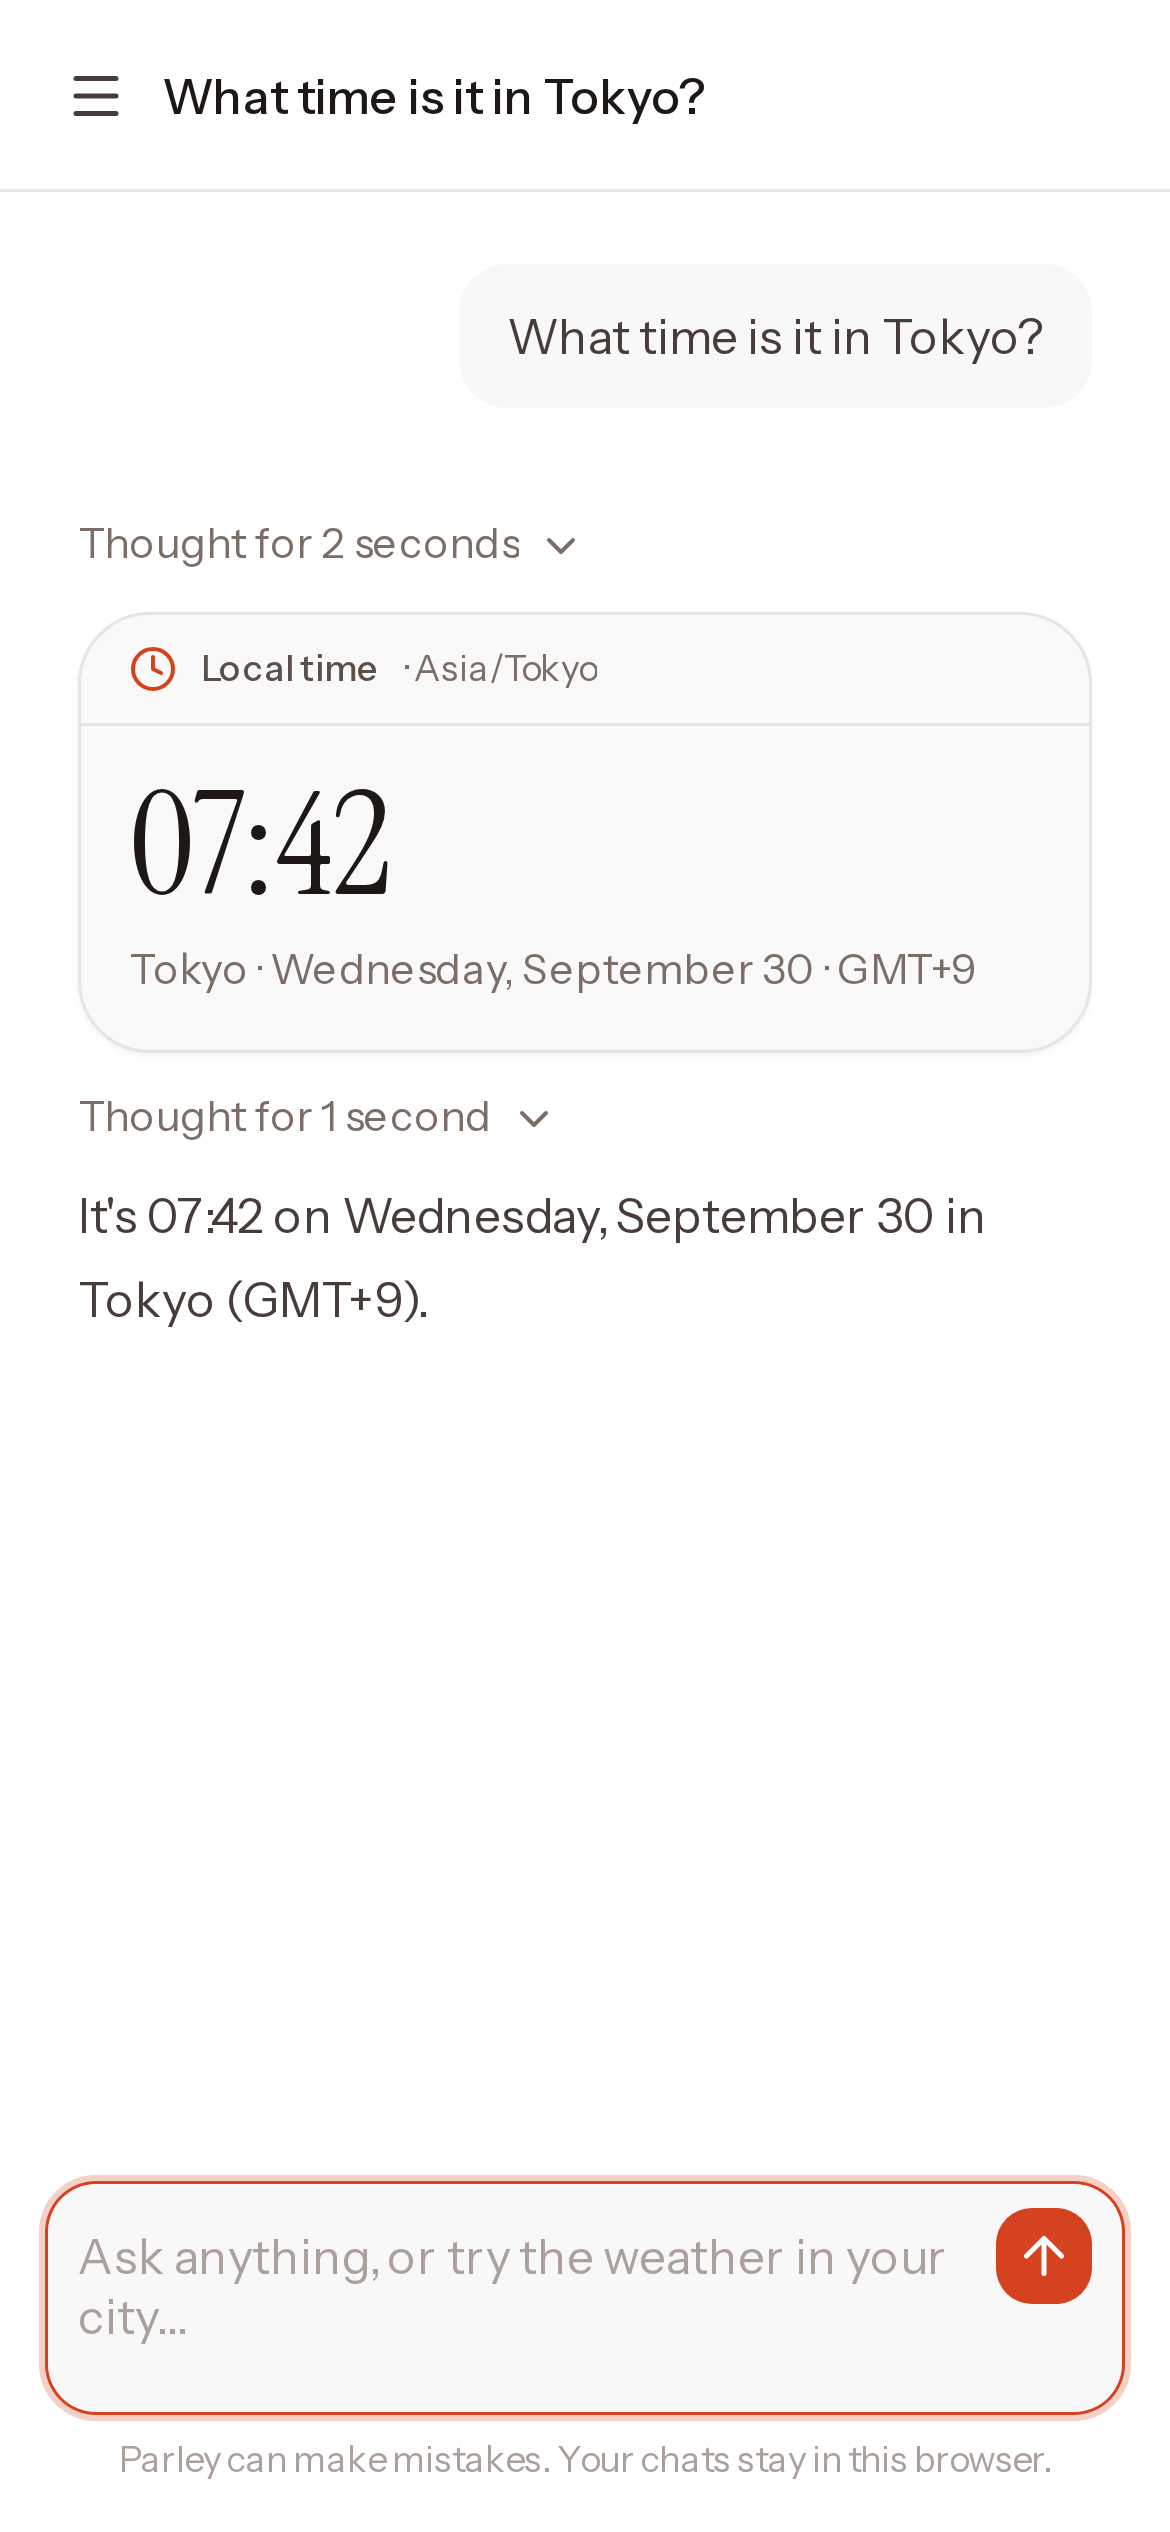
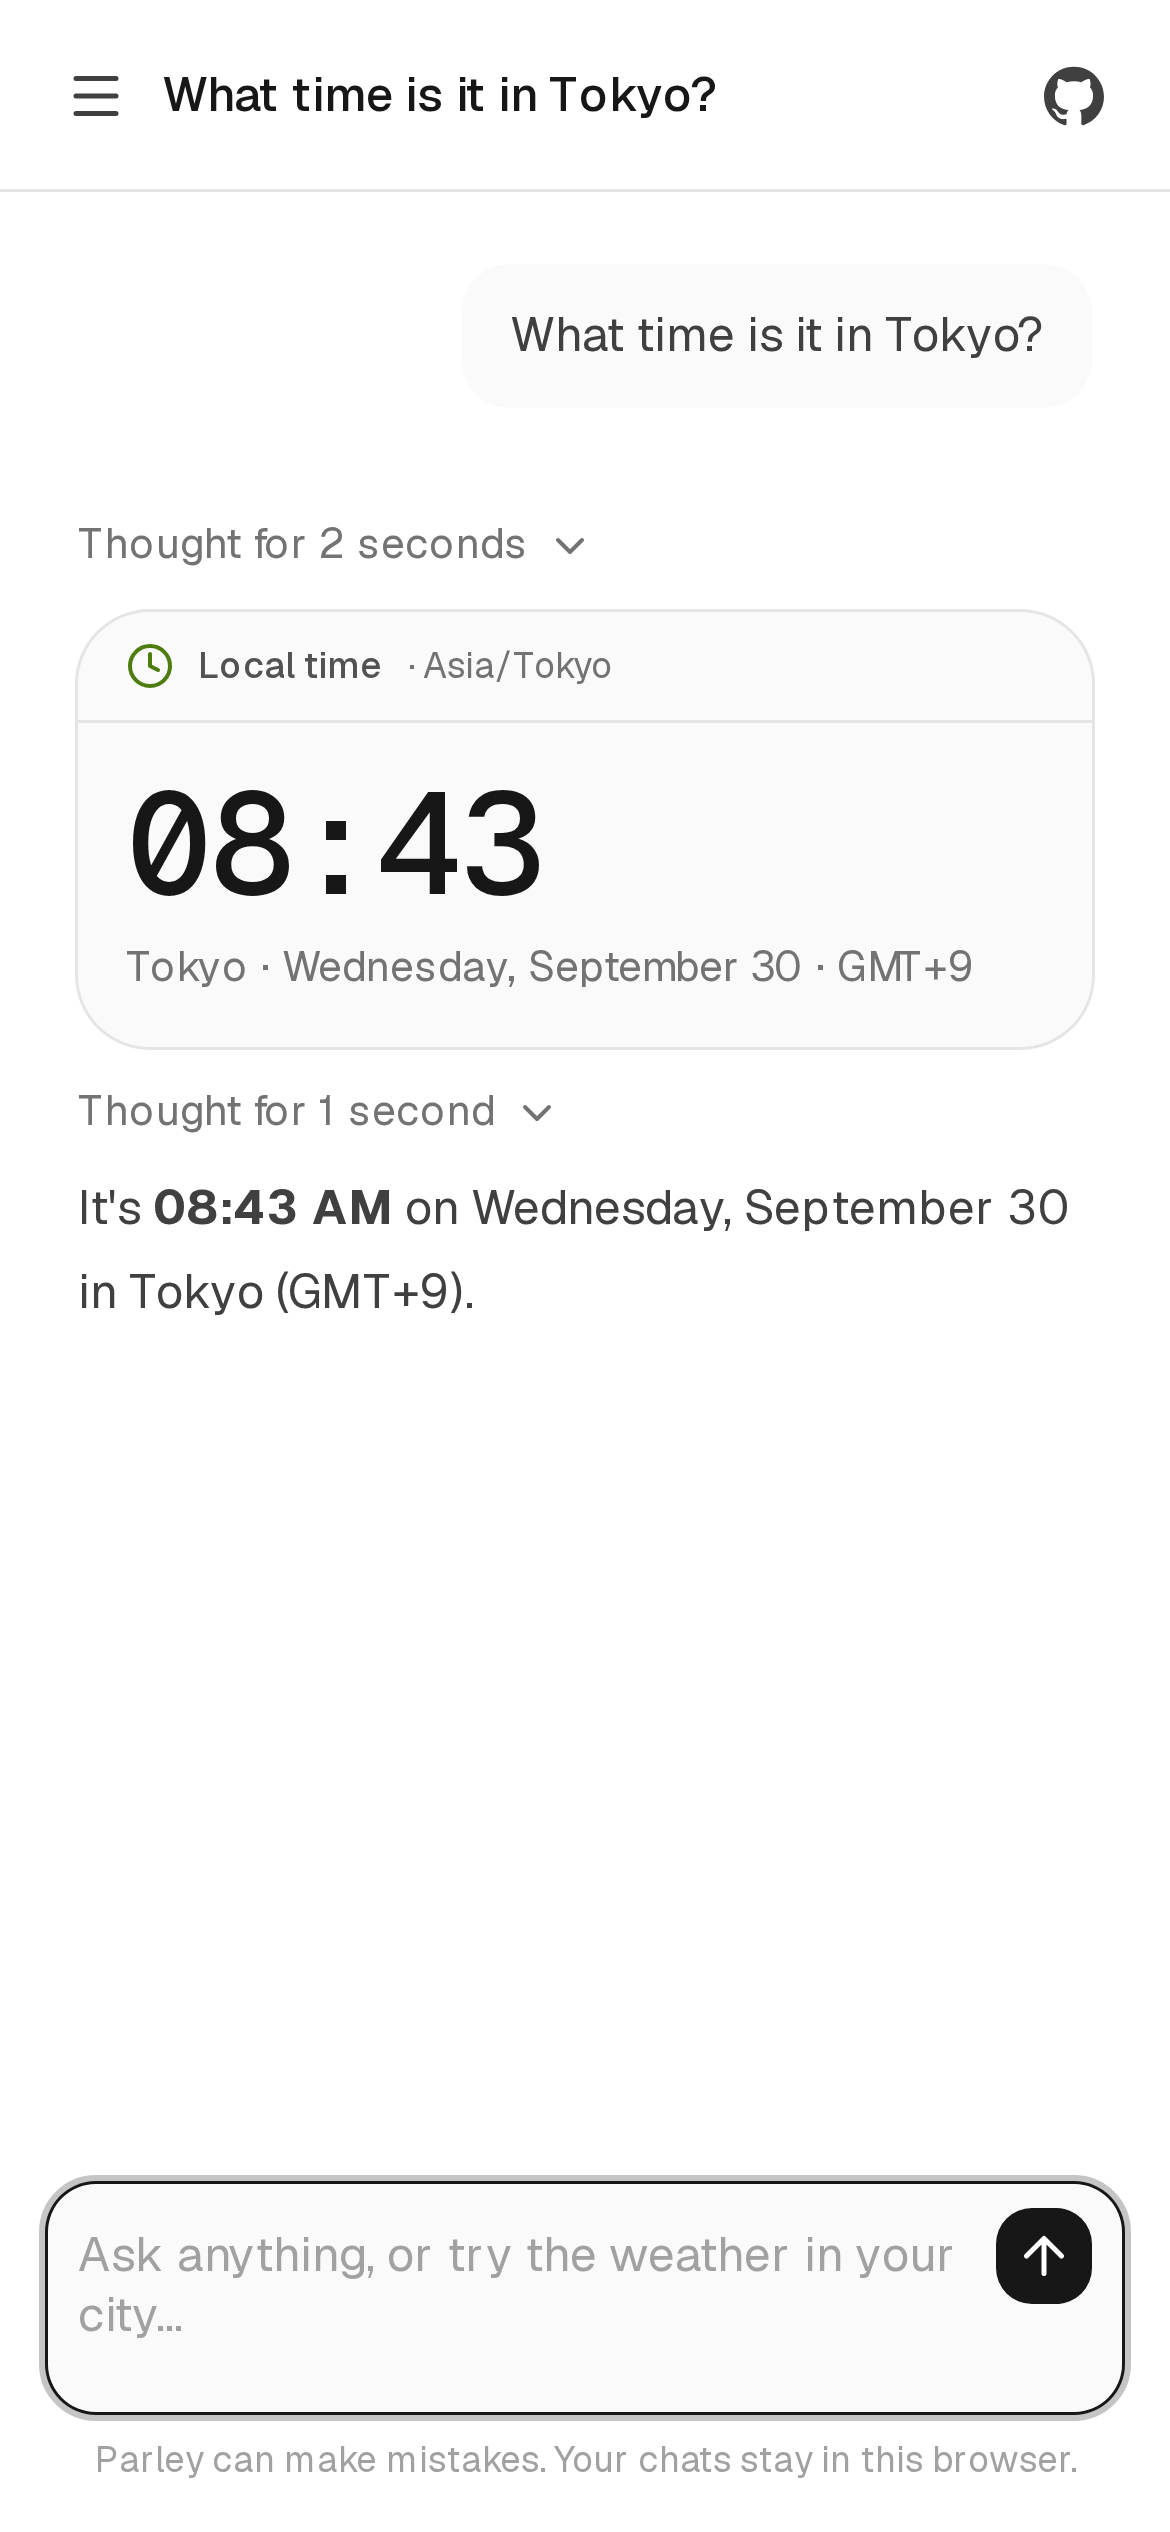
AMOLED theme: monochrome on true black with vivid accents
Geist and Geist Mono replace Instrument; the interface is black and
white with pure black surfaces in dark mode. Colour is kept for the
brand gradient (cyan, violet, magenta) and per-tool accents: weather
cyan, calculation magenta, time lime, with a soft glow on dark cards.
New logo, favicon and boot loader to match; README visuals re-rendered.

The Turnstile widget, when it has to show, now sits in the corner and
follows the colour mode instead of covering the suggestions.

diff --git a/app/spa-loading-template.html b/app/spa-loading-template.html
@@ -1,15 +1,20 @@
 <div id="parley-boot" role="status" aria-label="Loading Parley">
   <svg viewBox="0 0 32 32" width="56" height="56" aria-hidden="true">
     <defs>
+      <linearGradient id="parley-boot-grad" x1="15" y1="16" x2="30" y2="29" gradientUnits="userSpaceOnUse">
+        <stop offset="0" stop-color="#00e5ff" />
+        <stop offset=".5" stop-color="#8b5cff" />
+        <stop offset="1" stop-color="#ff3df2" />
+      </linearGradient>
       <mask id="parley-boot-gap">
         <rect width="32" height="32" fill="#fff" />
         <path d="M20 16H25a4.5 4.5 0 0 1 4.5 4.5V28.5L26 25H20a4.5 4.5 0 0 1-4.5-4.5 4.5 4.5 0 0 1 4.5-4.5Z" fill="#000" stroke="#000" stroke-width="3" stroke-linejoin="round" />
       </mask>
     </defs>
     <g mask="url(#parley-boot-gap)">
-      <path class="a" fill="#ee5a36" fill-rule="evenodd" d="M4 11.5A8.5 8.5 0 0 1 12.5 3h5A8.5 8.5 0 0 1 26 11.5 8.5 8.5 0 0 1 17.5 20H11v5.5a3.5 3.5 0 0 1-7 0ZM15 8.3a3.2 3.2 0 1 0 0 6.4 3.2 3.2 0 1 0 0-6.4Z" />
+      <path class="a" fill-rule="evenodd" d="M4 11.5A8.5 8.5 0 0 1 12.5 3h5A8.5 8.5 0 0 1 26 11.5 8.5 8.5 0 0 1 17.5 20H11v5.5a3.5 3.5 0 0 1-7 0ZM15 8.3a3.2 3.2 0 1 0 0 6.4 3.2 3.2 0 1 0 0-6.4Z" />
     </g>
-    <path class="b" fill="#ffa47f" d="M20 16H25a4.5 4.5 0 0 1 4.5 4.5V28.5L26 25H20a4.5 4.5 0 0 1-4.5-4.5 4.5 4.5 0 0 1 4.5-4.5Z" />
+    <path class="b" fill="url(#parley-boot-grad)" d="M20 16H25a4.5 4.5 0 0 1 4.5 4.5V28.5L26 25H20a4.5 4.5 0 0 1-4.5-4.5 4.5 4.5 0 0 1 4.5-4.5Z" />
   </svg>
   <span>Parley</span>
 </div>
@@ -23,16 +28,20 @@
     align-items: center;
     justify-content: center;
     gap: 14px;
-    background: #fbfaf9;
-    color: #3a3330;
-    font: 400 26px/1 'Instrument Serif', Georgia, serif;
-    letter-spacing: -0.01em;
+    background: #fff;
+    color: #0a0a0a;
+    font: 600 22px/1 'Geist', ui-sans-serif, system-ui, sans-serif;
+    letter-spacing: -0.02em;
   }
+  #parley-boot .a { fill: #0a0a0a; }
   @media (prefers-color-scheme: dark) {
-    #parley-boot { background: #1d1a18; color: #f1edea; }
+    #parley-boot { background: #000; color: #fafafa; }
+    #parley-boot .a { fill: #fafafa; }
   }
-  html.dark #parley-boot { background: #1d1a18; color: #f1edea; }
-  html.light #parley-boot { background: #fbfaf9; color: #3a3330; }
+  html.dark #parley-boot { background: #000; color: #fafafa; }
+  html.dark #parley-boot .a { fill: #fafafa; }
+  html.light #parley-boot { background: #fff; color: #0a0a0a; }
+  html.light #parley-boot .a { fill: #0a0a0a; }
   #parley-boot .a, #parley-boot .b {
     transform-box: fill-box;
     transform-origin: center;

diff --git a/app/assets/css/main.css b/app/assets/css/main.css
@@ -2,32 +2,52 @@
 @import "@nuxt/ui";
 
 @theme static {
-  --font-sans: 'Instrument Sans', ui-sans-serif, system-ui, sans-serif;
-  --font-serif: 'Instrument Serif', ui-serif, Georgia, serif;
-  --font-mono: 'JetBrains Mono', ui-monospace, SFMono-Regular, monospace;
-
-  /* Ember: Parley's brand color, a warm coral that reads well on light and dark. */
-  --color-ember-50: #fff4ef;
-  --color-ember-100: #ffe6da;
-  --color-ember-200: #ffc9b1;
-  --color-ember-300: #ffa47f;
-  --color-ember-400: #fb7a4c;
-  --color-ember-500: #ee5a36;
-  --color-ember-600: #d4421f;
-  --color-ember-700: #b03318;
-  --color-ember-800: #8d2c19;
-  --color-ember-900: #732818;
-  --color-ember-950: #3e110a;
+  --font-sans: 'Geist', ui-sans-serif, system-ui, sans-serif;
+  --font-mono: 'Geist Mono', ui-monospace, SFMono-Regular, monospace;
 }
 
+/*
+ * Parley's look: a monochrome interface on true black (AMOLED) with a few vivid accents.
+ * Buttons and focus rings are black/white; colour is saved for the brand gradient and the tool cards.
+ */
 :root {
-  /* 600 keeps white button text above AA contrast in light mode. */
-  --ui-primary: var(--ui-color-primary-600);
+  --ui-primary: var(--ui-color-primary-900);
   --ui-radius: 0.5rem;
+
+  --accent-cyan: #0891b2;
+  --accent-violet: #7c3aed;
+  --accent-magenta: #c026d3;
+  --accent-lime: #4d7c0f;
+  --parley-gradient: linear-gradient(100deg, var(--accent-cyan), var(--accent-violet) 50%, var(--accent-magenta));
 }
 
 .dark {
-  --ui-primary: var(--ui-color-primary-400);
+  --ui-primary: var(--ui-color-primary-50);
+
+  /* True black surfaces: AMOLED pixels switch off and accents glow. */
+  --ui-bg: #000;
+  --ui-bg-muted: #0a0a0a;
+  --ui-bg-elevated: #111;
+  --ui-bg-accented: #1c1c1c;
+  --ui-border: #222;
+  --ui-border-muted: #181818;
+  --ui-border-accented: #333;
+
+  --accent-cyan: #00e5ff;
+  --accent-violet: #8b5cff;
+  --accent-magenta: #ff3df2;
+  --accent-lime: #c6ff00;
+}
+
+::selection {
+  background: color-mix(in oklab, var(--accent-magenta) 35%, transparent);
+}
+
+.text-gradient {
+  background: var(--parley-gradient);
+  -webkit-background-clip: text;
+  background-clip: text;
+  color: transparent;
 }
 
 /* rangi emits --shiki-dark* vars for the dark half of the code theme */

diff --git a/app/components/ParleyLogo.vue b/app/components/ParleyLogo.vue
@@ -1,11 +1,11 @@
 <script setup lang="ts">
 /**
- * Parley mark: a speech bubble whose tail is the stem of a "P", answered by a second bubble.
- * `talking` animates the two bubbles taking turns (used by the loaders).
+ * Parley mark: a speech bubble whose tail is the stem of a "P" (monochrome), answered by a second
+ * bubble in the brand gradient. `talking` animates the two bubbles taking turns (used by the loaders).
  */
 withDefaults(defineProps<{ talking?: boolean }>(), { talking: false })
 
-const maskId = useId()
+const id = useId()
 const reply = 'M20 16H25a4.5 4.5 0 0 1 4.5 4.5V28.5L26 25H20a4.5 4.5 0 0 1-4.5-4.5 4.5 4.5 0 0 1 4.5-4.5Z'
 </script>
 
@@ -16,7 +16,7 @@ const reply = 'M20 16H25a4.5 4.5 0 0 1 4.5 4.5V28.5L26 25H20a4.5 4.5 0 0 1-4.5-4
     aria-hidden="true"
   >
     <defs>
-      <mask :id="maskId">
+      <mask :id="`${id}-gap`">
         <rect
           width="32"
           height="32"
@@ -30,18 +30,39 @@ const reply = 'M20 16H25a4.5 4.5 0 0 1 4.5 4.5V28.5L26 25H20a4.5 4.5 0 0 1-4.5-4
           stroke-linejoin="round"
         />
       </mask>
+      <linearGradient
+        :id="`${id}-grad`"
+        x1="15"
+        y1="16"
+        x2="30"
+        y2="29"
+        gradientUnits="userSpaceOnUse"
+      >
+        <stop
+          offset="0"
+          style="stop-color: var(--accent-cyan)"
+        />
+        <stop
+          offset=".5"
+          style="stop-color: var(--accent-violet)"
+        />
+        <stop
+          offset="1"
+          style="stop-color: var(--accent-magenta)"
+        />
+      </linearGradient>
     </defs>
-    <g :mask="`url(#${maskId})`">
+    <g :mask="`url(#${id}-gap)`">
       <path
         :class="{ 'parley-talk-a': talking }"
-        class="fill-primary"
+        class="fill-(--ui-text-highlighted)"
         fill-rule="evenodd"
         d="M4 11.5A8.5 8.5 0 0 1 12.5 3h5A8.5 8.5 0 0 1 26 11.5 8.5 8.5 0 0 1 17.5 20H11v5.5a3.5 3.5 0 0 1-7 0ZM15 8.3a3.2 3.2 0 1 0 0 6.4 3.2 3.2 0 1 0 0-6.4Z"
       />
     </g>
     <path
       :class="{ 'parley-talk-b': talking }"
-      class="fill-(--ui-color-primary-300)"
+      :fill="`url(#${id}-grad)`"
       :d="reply"
     />
   </svg>

diff --git a/app/pages/index.vue b/app/pages/index.vue
@@ -4,10 +4,10 @@ const { create } = useConversations()
 const input = ref('')
 
 const suggestions = [
-  { icon: 'i-lucide-cloud-sun', label: 'Weather in Istanbul this week?' },
-  { icon: 'i-lucide-calculator', label: 'What is 18% of 2,450, plus 320?' },
-  { icon: 'i-lucide-clock', label: 'What time is it in Tokyo right now?' },
-  { icon: 'i-lucide-code-xml', label: 'Write a Vue composable that debounces a ref' }
+  { icon: 'i-lucide-cloud-sun', label: 'Weather in Istanbul this week?', accent: 'text-(--accent-cyan)' },
+  { icon: 'i-lucide-calculator', label: 'What is 18% of 2,450, plus 320?', accent: 'text-(--accent-magenta)' },
+  { icon: 'i-lucide-clock', label: 'What time is it in Tokyo right now?', accent: 'text-(--accent-lime)' },
+  { icon: 'i-lucide-code-xml', label: 'Write a Vue composable that debounces a ref', accent: 'text-(--accent-violet)' }
 ]
 
 function start(text: string) {
@@ -37,8 +37,8 @@ function start(text: string) {
       <UContainer class="flex min-h-full max-w-3xl flex-col justify-center gap-8 py-10">
         <div class="flex flex-col items-center text-center">
           <ParleyLogo class="size-14" />
-          <h1 class="mt-5 font-serif text-4xl text-highlighted sm:text-5xl">
-            What shall we <em class="text-primary">talk through</em>?
+          <h1 class="mt-5 text-4xl font-semibold tracking-tighter text-highlighted sm:text-5xl">
+            What shall we <span class="text-gradient">talk through</span>?
           </h1>
           <p class="mt-3 max-w-md text-muted">
             Streaming answers, code you can copy, and live tools for weather, maths and time.
@@ -61,6 +61,7 @@ function start(text: string) {
             variant="outline"
             size="sm"
             class="rounded-full"
+            :ui="{ leadingIcon: suggestion.accent }"
             @click="start(suggestion.label)"
           />
         </div>

diff --git a/app/components/tools/ToolCard.vue b/app/components/tools/ToolCard.vue
@@ -1,17 +1,20 @@
 <script setup lang="ts">
-defineProps<{ icon: string, title: string, subtitle?: string }>()
+export type ToolAccent = 'cyan' | 'magenta' | 'lime' | 'violet'
+
+defineProps<{ icon: string, title: string, subtitle?: string, accent: ToolAccent }>()
 </script>
 
 <template>
   <UCard
     variant="subtle"
-    class="my-3 w-full max-w-md rounded-xl"
+    class="tool-card my-3 w-full max-w-md rounded-xl"
+    :style="{ '--tool-accent': `var(--accent-${accent})` }"
     :ui="{ header: 'flex items-center gap-2 px-4 py-2.5 sm:px-4 text-xs text-muted', body: 'p-4 sm:p-4' }"
   >
     <template #header>
       <UIcon
         :name="icon"
-        class="size-4 text-primary"
+        class="size-4 text-(--tool-accent)"
       />
       <span class="font-medium text-toned">{{ title }}</span>
       <span
@@ -26,3 +29,12 @@ defineProps<{ icon: string, title: string, subtitle?: string }>()
     <slot />
   </UCard>
 </template>
+
+<style scoped>
+/* On true black the card picks up a soft glow in its tool's colour. */
+:global(.dark) .tool-card {
+  box-shadow:
+    0 0 0 1px color-mix(in oklab, var(--tool-accent) 22%, transparent),
+    0 12px 48px -16px color-mix(in oklab, var(--tool-accent) 40%, transparent);
+}
+</style>

diff --git a/nuxt.config.ts b/nuxt.config.ts
@@ -13,7 +13,7 @@ export default defineNuxtConfig({
       htmlAttrs: { lang: 'en' },
       meta: [
         { name: 'description', content: 'Parley is an AI chat with streaming replies and live tool cards, running on Cloudflare Workers AI.' },
-        { name: 'theme-color', content: '#1c1917' }
+        { name: 'theme-color', content: '#000000' }
       ],
       link: [{ rel: 'icon', type: 'image/svg+xml', href: '/favicon.svg' }]
     }
@@ -68,9 +68,8 @@ export default defineNuxtConfig({
 
   fonts: {
     families: [
-      { name: 'Instrument Sans', provider: 'google', weights: [400, 500, 600, 700] },
-      { name: 'Instrument Serif', provider: 'google', weights: [400], styles: ['normal', 'italic'] },
-      { name: 'JetBrains Mono', provider: 'google', weights: [400, 500] }
+      { name: 'Geist', provider: 'google', weights: [400, 500, 600, 700] },
+      { name: 'Geist Mono', provider: 'google', weights: [400, 500] }
     ]
   },
 

diff --git a/app/components/tools/WeatherCard.vue b/app/components/tools/WeatherCard.vue
@@ -9,15 +9,16 @@ const unit = computed(() => props.data.units.temperature.replace('°C', '°').re
   <ToolsToolCard
     icon="i-lucide-map-pin"
     title="Weather"
+    accent="cyan"
     :subtitle="[data.location, data.country].filter(Boolean).join(', ')"
   >
     <div class="flex items-center gap-4">
       <UIcon
         :name="now.icon"
-        class="size-14 shrink-0 text-primary"
+        class="size-14 shrink-0 text-(--accent-cyan)"
       />
       <div class="min-w-0">
-        <p class="font-serif text-5xl leading-none text-highlighted">
+        <p class="text-5xl font-semibold leading-none tracking-tighter text-highlighted tabular-nums">
           {{ Math.round(data.current.temperature) }}{{ unit }}
         </p>
         <p class="mt-1 text-sm text-muted">

diff --git a/app/components/tools/CalculatorCard.vue b/app/components/tools/CalculatorCard.vue
@@ -10,6 +10,7 @@ const { copy, copied } = useClipboard()
   <ToolsToolCard
     icon="i-lucide-calculator"
     title="Calculation"
+    accent="magenta"
   >
     <template #actions>
       <UButton
@@ -25,8 +26,8 @@ const { copy, copied } = useClipboard()
     <p class="break-all font-mono text-sm text-muted">
       {{ data.expression }}
     </p>
-    <p class="mt-1 break-all font-serif text-4xl leading-tight text-highlighted tabular-nums">
-      <span class="text-dimmed">=</span> {{ data.formatted }}
+    <p class="mt-1 break-all text-4xl font-semibold leading-tight tracking-tighter text-highlighted tabular-nums">
+      <span class="text-(--accent-magenta)">=</span> {{ data.formatted }}
     </p>
   </ToolsToolCard>
 </template>

diff --git a/app/layouts/default.vue b/app/layouts/default.vue
@@ -162,7 +162,7 @@ async function deleteConversation(id: string) {
             <ULink
               :to="AUTHOR.website"
               target="_blank"
-              class="font-medium text-toned hover:text-primary"
+              class="font-medium text-toned hover:text-highlighted"
             >
               {{ AUTHOR.name }}
             </ULink>
@@ -217,7 +217,7 @@ async function deleteConversation(id: string) {
     <!-- Turnstile renders here; it stays invisible unless Cloudflare asks for an interaction. -->
     <div
       :id="TURNSTILE_CONTAINER_ID"
-      class="fixed bottom-32 left-1/2 z-50 -translate-x-1/2 empty:hidden"
+      class="fixed right-4 bottom-4 z-50 empty:hidden"
     />
   </UDashboardGroup>
 </template>

diff --git a/app/components/tools/TimeCard.vue b/app/components/tools/TimeCard.vue
@@ -6,9 +6,10 @@ defineProps<{ data: TimeResult }>()
   <ToolsToolCard
     icon="i-lucide-clock"
     title="Local time"
+    accent="lime"
     :subtitle="data.timeZone"
   >
-    <p class="font-serif text-5xl leading-none text-highlighted tabular-nums">
+    <p class="font-mono text-5xl font-medium leading-none tracking-tight text-highlighted tabular-nums">
       {{ data.time }}
     </p>
     <p class="mt-2 text-sm text-muted">

diff --git a/app/composables/useVisitorSession.ts b/app/composables/useVisitorSession.ts
@@ -40,6 +40,7 @@ async function getToken(siteKey: string, action: string) {
       'sitekey': siteKey,
       action,
       'appearance': 'interaction-only',
+      'theme': document.documentElement.classList.contains('dark') ? 'dark' : 'light',
       'callback': (token: string) => {
         turnstile.remove(widgetId)
         resolve(token)

diff --git a/app/components/ParleyWordmark.vue b/app/components/ParleyWordmark.vue
@@ -1,6 +1,6 @@
 <template>
   <span class="inline-flex items-center gap-2">
     <ParleyLogo class="size-7 shrink-0" />
-    <span class="font-serif text-2xl leading-none tracking-tight text-highlighted">Parley</span>
+    <span class="text-xl font-semibold leading-none tracking-tight text-highlighted">Parley</span>
   </span>
 </template>
